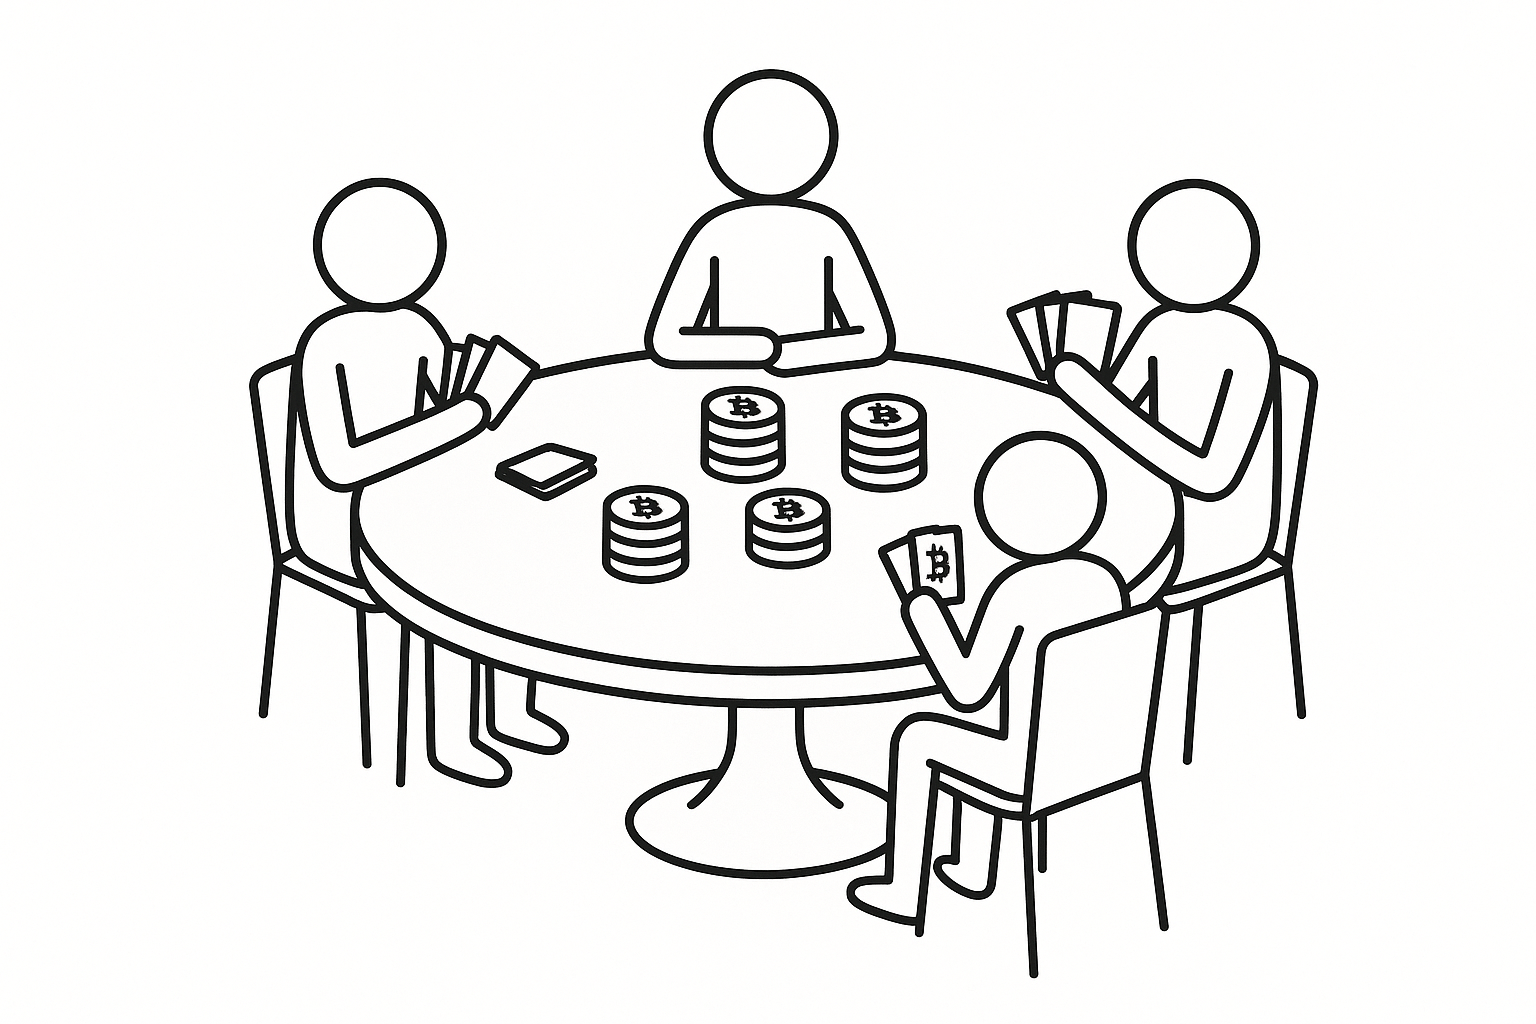
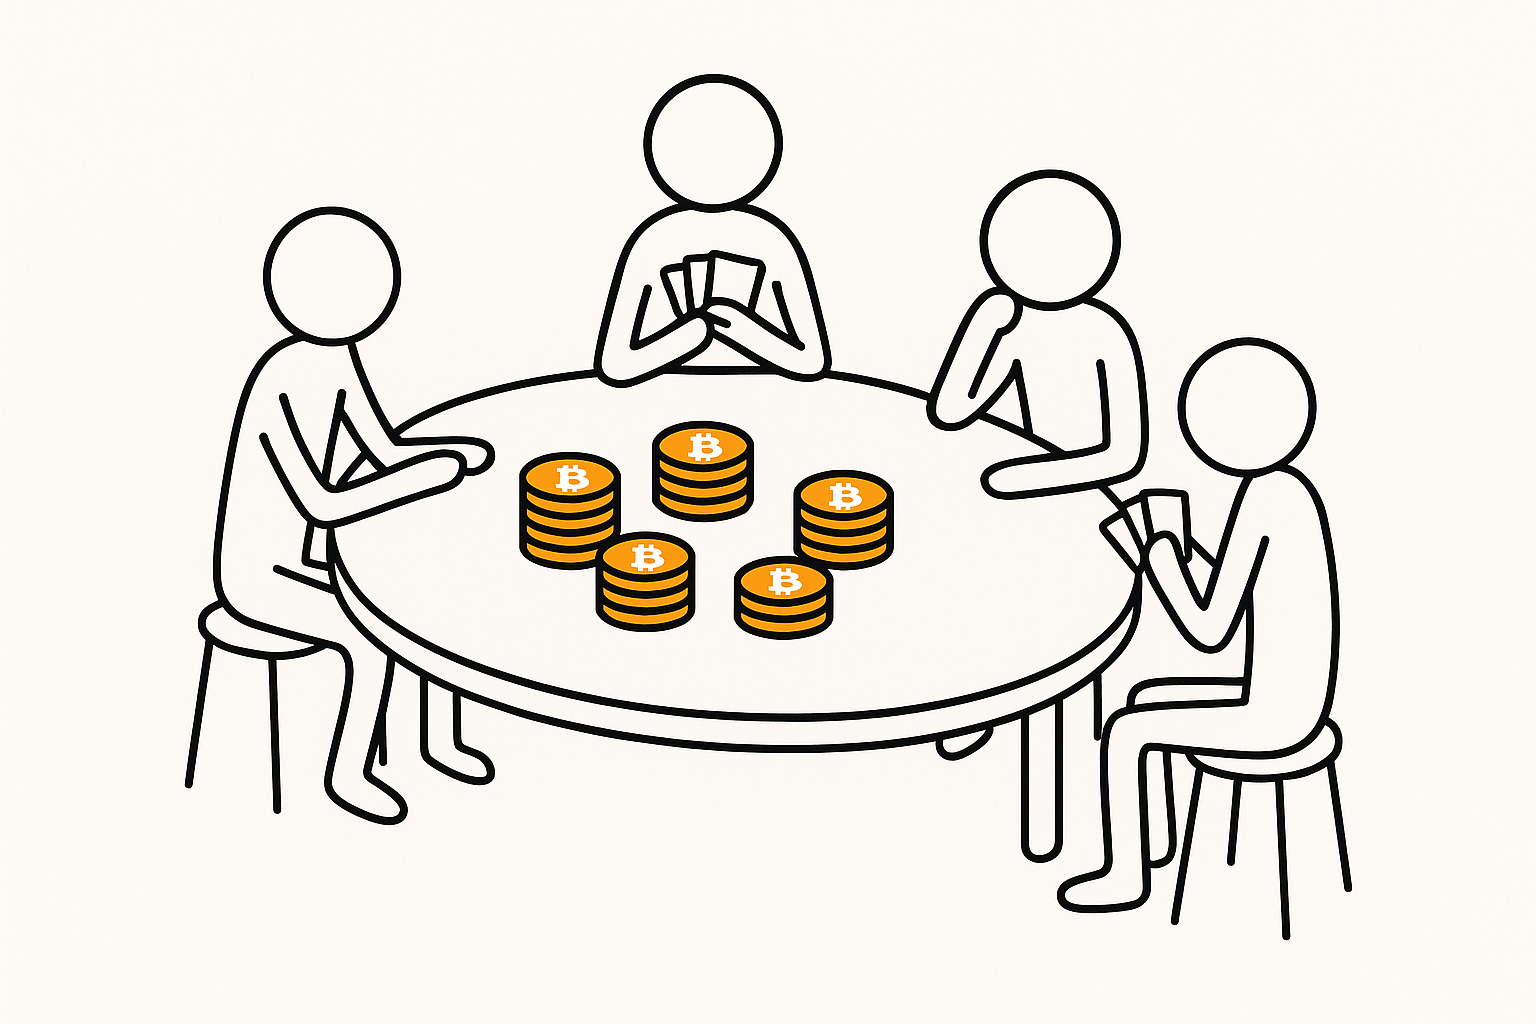
Regenerate hero image with orange bitcoins and update navigation menus on both pages

diff --git a/is-crypto-gambling-legal-uk.html b/is-crypto-gambling-legal-uk.html
@@ -491,11 +491,11 @@
   <body>
     <header>
       <div class="header-container">
-        <a href="/"><img src="logo-slot-machine.png" alt="Live Online Casinos UK - Slot Machine Logo" class="header-logo" /></a>
+        <a href="index.html"><img src="logo-slot-machine.png" alt="Live Online Casinos UK - Slot Machine Logo" class="header-logo" /></a>
         <nav class="header-nav" id="header-nav">
-          <a href="/" class="nav-btn">Home</a>
-          <a href="best-casinos-not-on-gamstop.html" class="nav-btn">Best casinos not on gamstop</a>
-          <a href="/#faq" class="nav-btn">FAQ's</a>
+          <a href="index.html" class="nav-btn">Home</a>
+          <a href="is-crypto-gambling-legal-uk.html" class="nav-btn">Is Crypto Gambling Legal?</a>
+          <a href="index.html#faq" class="nav-btn">FAQ's</a>
         </nav>
         <button class="menu-toggle" aria-label="Toggle menu" id="menu-toggle">
           <svg xmlns="http://www.w3.org/2000/svg" width="24" height="24" viewBox="0 0 24 24" fill="none" stroke="currentColor" stroke-width="2" stroke-linecap="round" stroke-linejoin="round">

diff --git a/index.html b/index.html
@@ -578,11 +578,11 @@
   <body>
     <header>
       <div class="header-container">
-        <a href="/"><img src="logo-slot-machine.png" alt="Live Online Casinos UK - Slot Machine Logo" class="header-logo" /></a>
+        <a href="index.html"><img src="logo-slot-machine.png" alt="Live Online Casinos UK - Slot Machine Logo" class="header-logo" /></a>
         <nav class="header-nav" id="header-nav">
-          <a href="/" class="nav-btn">Home</a>
-          <a href="best-casinos-not-on-gamstop.html" class="nav-btn">Best casinos not on gamstop</a>
-          <a href="#faq" class="nav-btn">FAQ's</a>
+          <a href="index.html" class="nav-btn">Home</a>
+          <a href="is-crypto-gambling-legal-uk.html" class="nav-btn">Is Crypto Gambling Legal?</a>
+          <a href="index.html#faq" class="nav-btn">FAQ's</a>
         </nav>
         <button class="menu-toggle" aria-label="Toggle menu" id="menu-toggle">
           <svg xmlns="http://www.w3.org/2000/svg" width="24" height="24" viewBox="0 0 24 24" fill="none" stroke="currentColor" stroke-width="2" stroke-linecap="round" stroke-linejoin="round">
